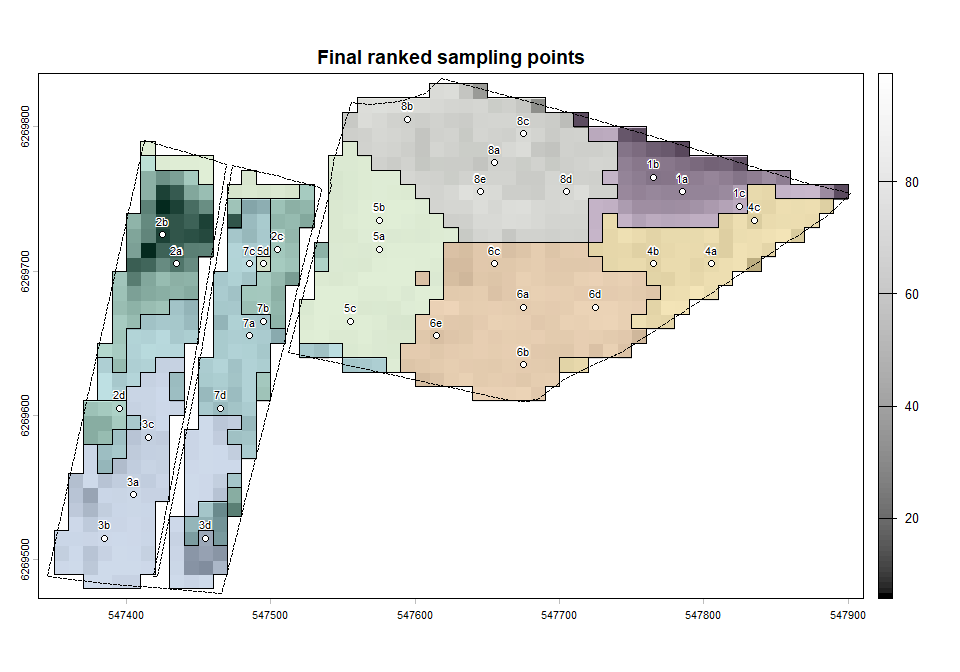
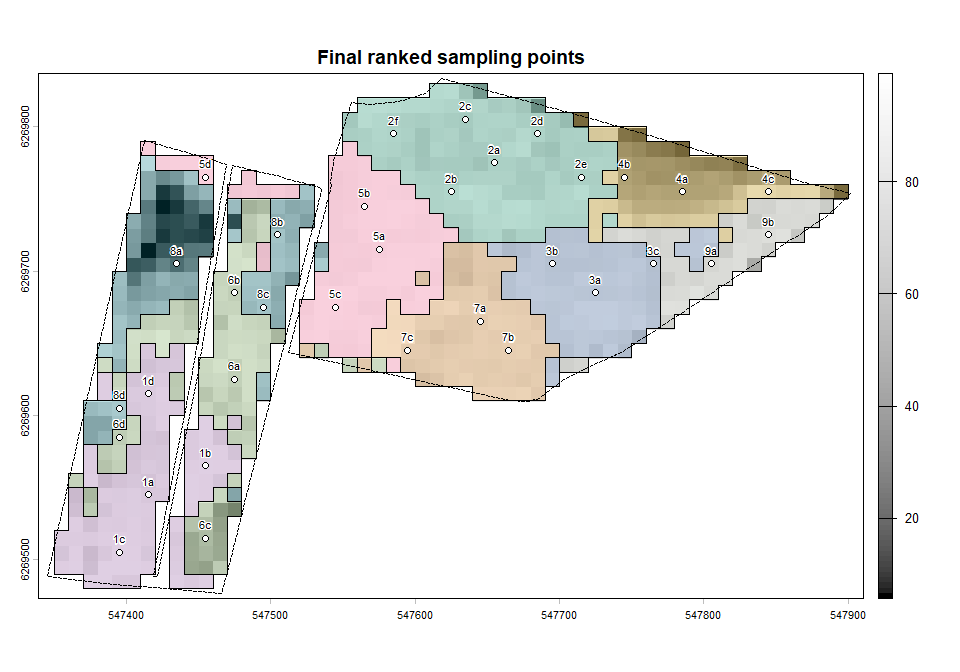
Finalize Workflow Output and Summary Statistics

diff --git a/ranked_samples_workflow.md b/ranked_samples_workflow.md
@@ -1,7 +1,7 @@
 ---
 title: "Ranked Sampling Workflow for UDKIK"
 author: "Anders Bjørn Møller, SEGES"
-date: "2026-07-23"
+date: "2026-07-24"
 output:
   html_document: 
     toc: true
@@ -419,14 +419,15 @@ summary_tbl
 
 ```
 ##   cluster n_points
-## 1       1        3
-## 2       2        4
-## 3       3        4
+## 1       1        4
+## 2       2        6
+## 3       3        3
 ## 4       4        3
 ## 5       5        4
-## 6       6        5
-## 7       7        4
-## 8       8        5
+## 6       6        4
+## 7       7        3
+## 8       8        4
+## 9       9        2
 ```
 
 ``` r
@@ -434,7 +435,7 @@ cat("Total points:", nrow(all_pts), "\n")
 ```
 
 ```
-## Total points: 32
+## Total points: 33
 ```
 
 ``` r
@@ -442,7 +443,7 @@ cat("Primary points:", nrow(myclusters$points), "\n")
 ```
 
 ```
-## Primary points: 8
+## Primary points: 9
 ```
 
 ``` r